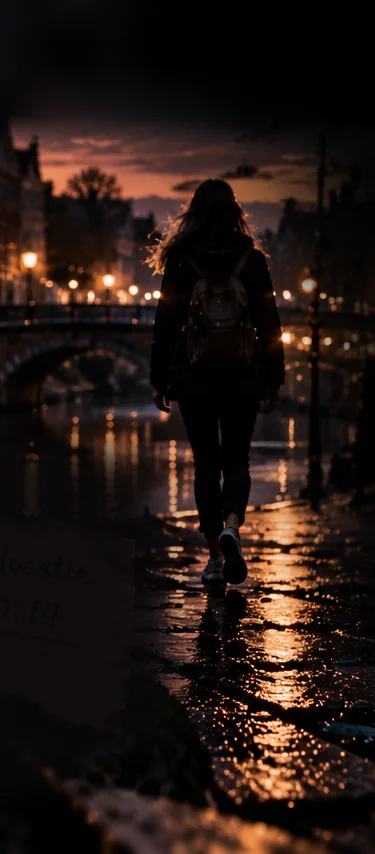
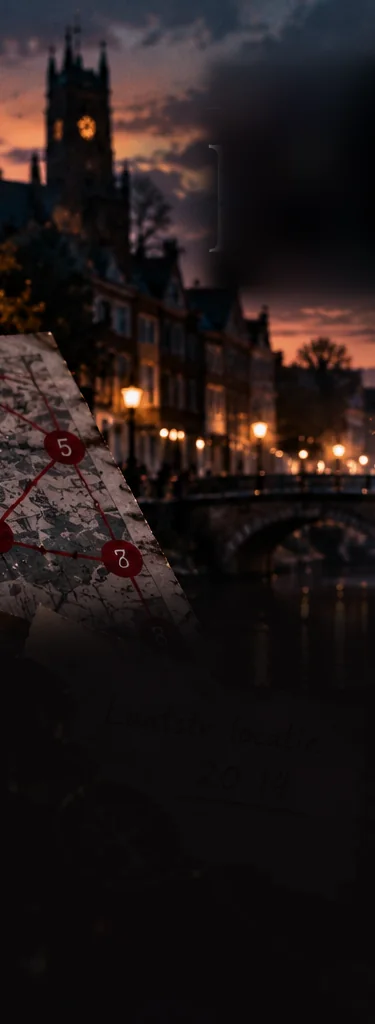
De Verdwijning: startscherm rond de telefoon met het laatste gesprek (taal van de pagina), achtergrond zonder het meisje, neutrale figuur met capuchon
Claude-Session: https://claude.ai/code/session_01M8DsomgqiAvfCgo995HChD

diff --git a/games/vanishing/game.css b/games/vanishing/game.css
@@ -98,7 +98,7 @@ input[type=range]{width:100%;accent-color:var(--blood)}
 :root{--night:#0c0a0b;--night2:#171214;--street:#3d2f2b;--fog:#b8aca0;--paper:#ddd5c6;--paper2:#cfc6b4;--ink:#1a1614;--ink2:#63584c;--rule:#b5a994;
   --lamp:#f0963c;--spook:#f3c9a0;--blood:#c2262e;--violet:#e8a27a;--f-title:'IM Fell English SC','Special Elite',Georgia,serif;--f-hand:'Caveat','Segoe Script',cursive}
 /* startscherm: titel boven in de lucht, de vermiste loopt weg over de kade, daaronder de zaak */
-#home{background:linear-gradient(180deg,rgba(12,10,11,.7) 0%,rgba(12,10,11,.25) 16%,rgba(12,10,11,0) 26%,rgba(12,10,11,0) 60%,rgba(12,10,11,.85) 76%,var(--night) 86%),url("hero.webp") 60% top/cover no-repeat,var(--night)}
+#home{background:linear-gradient(180deg,rgba(12,10,11,.6) 0%,rgba(12,10,11,.15) 14%,rgba(12,10,11,0) 24%,rgba(12,10,11,0) 52%,rgba(12,10,11,.8) 70%,var(--night) 84%),url("hero.webp") center top/cover no-repeat,var(--night)}
 @media (min-aspect-ratio:4/5){#home{background:linear-gradient(90deg,var(--night) 0%,rgba(12,10,11,0) 30%,rgba(12,10,11,0) 70%,var(--night) 100%),linear-gradient(180deg,rgba(12,10,11,.82) 0%,rgba(12,10,11,0) 34%,rgba(12,10,11,0) 52%,rgba(12,10,11,.85) 68%,var(--night) 78%),url("hero.webp") center top/auto 100vh no-repeat,var(--night)}}
 #home::after{content:"";position:fixed;inset:0;pointer-events:none;box-shadow:inset 0 0 120px rgba(0,0,0,.8)}
 .row0{justify-content:center}
@@ -107,7 +107,7 @@ input[type=range]{width:100%;accent-color:var(--blood)}
 .masthead .brand::before,.masthead .brand::after{content:"";flex:1;height:1px;background:rgba(221,213,198,.45)}
 #ttl{font-family:var(--f-title);font-size:clamp(34px,10.4vw,52px);line-height:1;letter-spacing:.01em;color:#e9e2d6;text-shadow:0 2px 2px #000,0 0 30px rgba(0,0,0,.9)}
 .masthead .redline{width:78%;height:3px;border-radius:2px;background:linear-gradient(90deg,rgba(194,38,46,0),#c2262e 18%,#c2262e 82%,rgba(194,38,46,0));box-shadow:0 0 12px rgba(194,38,46,.6)}
-.gap{min-height:clamp(300px,50vh,460px)}
+.gap{min-height:clamp(150px,27vh,260px)}
 #home .lead{font-family:var(--f-type);font-size:19px;line-height:1.5;color:#f1e9dc;text-align:center;max-width:none}
 .tasks{list-style:none;margin:0;padding:0;display:flex;flex-direction:column;gap:6px;font-family:var(--f-type);font-size:15px;color:#d9d0c2;text-align:center;text-shadow:0 1px 6px #000}
 .tasks li:last-child{margin-top:8px;color:var(--spook)}
@@ -168,3 +168,25 @@ input[type=range]{width:100%;accent-color:var(--blood)}
 #ar video{filter:saturate(.7) brightness(.75) contrast(1.15) sepia(.25)}
 #ar::after{content:"";position:absolute;inset:0;pointer-events:none;background:radial-gradient(ellipse at center,rgba(12,10,11,0) 35%,rgba(3,2,3,.82) 100%)}
 #arH,#arX{z-index:1}
+
+/* startscherm: de telefoon met het laatste gesprek, zoals op de sfeerfoto (teksten in de taal van de pagina) */
+.gsm{align-self:center;width:min(300px,86%);background:linear-gradient(160deg,#1c1819,#0b090a);border:3px solid #2e2729;border-radius:34px;padding:12px 12px 18px;box-shadow:0 0 0 1px #4a4043,0 24px 50px rgba(0,0,0,.75),0 0 60px rgba(240,150,60,.12);transform:rotate(-3deg);position:relative;font-family:var(--f-body)}
+.gsm::before{content:"";display:block;width:74px;height:18px;border-radius:12px;background:#000;margin:0 auto 8px}
+.gsm::after{content:"";position:absolute;inset:3px;border-radius:30px;pointer-events:none;background:linear-gradient(120deg,rgba(255,255,255,.10) 0%,rgba(255,255,255,0) 28%)}
+.gsm .bar{display:flex;justify-content:space-between;font-size:11px;color:#b8aca0;padding:0 10px;margin-top:-22px;margin-bottom:10px}
+.gsm .who{display:flex;align-items:center;gap:10px;padding:8px 6px 10px;border-bottom:1px solid #2e2729;margin-bottom:10px}
+.gsm .av{width:34px;height:34px;border-radius:50%;background:#3a3033;position:relative;overflow:hidden;flex:none}
+.gsm .av::before{content:"";position:absolute;left:50%;top:7px;width:12px;height:12px;margin-left:-6px;border-radius:50%;background:#6b5e60}
+.gsm .av::after{content:"";position:absolute;left:50%;bottom:-8px;width:26px;height:18px;margin-left:-13px;border-radius:13px 13px 0 0;background:#6b5e60}
+.gsm .who b{display:block;font-weight:600;font-size:15px;color:#f1e9dc;line-height:1.1}
+.gsm .who small{font-size:12px;color:#9a8d80}
+.gsm .chat{display:flex;flex-direction:column;gap:8px;align-items:flex-start;padding:0 4px}
+.gsm .chat p{margin:0;background:#e9e6e1;color:#1a1614;font-size:15px;line-height:1.3;padding:8px 12px;border-radius:16px 16px 16px 4px;display:flex;gap:10px;align-items:flex-end;opacity:0;animation:pop .5s ease-out forwards}
+.gsm .chat p i{font-style:normal;font-size:10.5px;color:#6b6058;white-space:nowrap}
+.gsm .chat p:nth-child(1){animation-delay:.5s}.gsm .chat p:nth-child(2){animation-delay:1.9s}.gsm .chat p:nth-child(3){animation-delay:3.3s}
+.gsm .chat .dots{background:#3a3436;padding:11px 14px;gap:5px;animation-delay:4.9s}
+.gsm .chat .dots span{width:7px;height:7px;border-radius:50%;background:#cfc6b8;animation:blink 1.3s infinite}
+.gsm .chat .dots span:nth-child(2){animation-delay:.2s}.gsm .chat .dots span:nth-child(3){animation-delay:.4s}
+.gsm .off{align-self:center;margin-top:10px;font-size:11.5px;color:#e0545f;letter-spacing:.04em;opacity:0;animation:pop .6s ease-out 7s forwards}
+@keyframes pop{from{opacity:0;transform:translateY(8px)}to{opacity:1;transform:none}}
+@keyframes blink{0%,60%,100%{opacity:.25}30%{opacity:1}}

diff --git a/nl/de-verdwijning.html b/nl/de-verdwijning.html
@@ -19,7 +19,7 @@
 <meta name="theme-color" content="#0c0a0b">
 <link rel="stylesheet" href="https://fonts.googleapis.com/css2?family=Special+Elite&family=Barlow:wght@400;500;600&family=Barlow+Condensed:wght@600&family=IM+Fell+English+SC&family=Caveat:wght@600&display=swap">
 <link rel="stylesheet" href="../shared/platform.css?v=1">
-<link rel="stylesheet" href="../games/vanishing/game.css?v=2">
+<link rel="stylesheet" href="../games/vanishing/game.css?v=3">
 <script type="application/ld+json">{"@context":"https://schema.org","@type":"VideoGame","name":"De Verdwijning","url":"https://moordwandeling.nl/nl/de-verdwijning.html","description":"Iemand is verdwenen. De laatste acht sporen van die avond liggen op echte plekken om je heen: camerabeelden, berichten, verklaringen, voorwerpen. Ontvoerd, gevlucht of vrijwillig verdwenen? Eerste zaak gratis.","inLanguage":"nl","gamePlatform":"Webbrowser","genre":["Detective","Locatiespel"],"isAccessibleForFree":true,"offers":{"@type":"Offer","price":"3.99","priceCurrency":"EUR","description":"Pro"}}</script>
 </head>
 <body>
@@ -30,7 +30,8 @@
       <div class="row0"><div class="pills"><a class="pill" id="hub" href="./">◂ Alle wandelingen</a><button type="button" class="pill" id="lang">English</button></div></div>
       <div class="masthead"><div class="brand">Moordwandeling</div><h1 id="ttl">De Verdwijning</h1><div class="redline"></div></div>
       <div class="gap"></div>
-      <p class="lead">Iemand is verdwenen.<br>De laatste acht sporen liggen in jouw buurt.</p>
+      <div class="gsm" aria-label="De vermiste"><div class="bar"><span>20:14</span><span>▂▄▆</span></div><div class="who"><span class="av"></span><span><b>De vermiste</b><small>laatst online 20:14</small></span></div><div class="chat"><p>Ik ben bijna op de plek…<i>20:12</i></p><p>Het voelt hier niet goed…<i>20:14</i></p><p>Ik meld me zo!<i>20:14</i></p><p class="dots"><span></span><span></span><span></span></p><span class="off">Telefoon uitgeschakeld · geen bereik</span></div></div>
+      <p class="lead">Iemand is verdwenen. Jij hebt het laatste bericht.<br>De laatste acht sporen liggen in jouw buurt.</p>
       <ul class="tasks"><li>Ontdek de laatste berichten.</li><li>Bekijk camerabeelden.</li><li>Spreek getuigen.</li><li>Verzamel bewijs.</li><li>Ontvoerd, gevlucht of vrijwillig verdwenen?</li></ul>
       <div class="pline"><b id="pRank">–</b><span><b id="pStreak">0</b> Dagen op rij</span><span><b id="pSolved">0</b> Opgelost</span></div>
       <div hidden><div class="xp"><i id="pXp" style="width:0%"></i></div><p class="note" id="pNext"></p></div>
@@ -109,6 +110,6 @@
 <script src="../shared/walk.js?v=2"></script>
 <script src="../games/vanishing/data-nl.js?v=1"></script>
 <script src="../games/vanishing/puzzles.js?v=1"></script>
-<script src="../games/vanishing/game.js?v=2"></script>
+<script src="../games/vanishing/game.js?v=3"></script>
 </body>
 </html>

diff --git a/the-vanishing.html b/the-vanishing.html
@@ -19,7 +19,7 @@
 <meta name="theme-color" content="#0c0a0b">
 <link rel="stylesheet" href="https://fonts.googleapis.com/css2?family=Special+Elite&family=Barlow:wght@400;500;600&family=Barlow+Condensed:wght@600&family=IM+Fell+English+SC&family=Caveat:wght@600&display=swap">
 <link rel="stylesheet" href="shared/platform.css?v=1">
-<link rel="stylesheet" href="games/vanishing/game.css?v=2">
+<link rel="stylesheet" href="games/vanishing/game.css?v=3">
 <script type="application/ld+json">{"@context":"https://schema.org","@type":"VideoGame","name":"The Vanishing","url":"https://murderwalk.com/the-vanishing.html","description":"Someone is gone. Their last eight traces of that evening lie at real places around you: camera stills, texts, statements, objects. Abducted, fled or a disappearance by choice? First case free.","inLanguage":"en","gamePlatform":"Web browser","genre":["Detective","Location-based game"],"isAccessibleForFree":true,"offers":{"@type":"Offer","price":"3.99","priceCurrency":"EUR","description":"Pro"}}</script>
 </head>
 <body>
@@ -30,7 +30,8 @@
       <div class="row0"><div class="pills"><a class="pill" id="hub" href="./">◂ All walks</a><button type="button" class="pill" id="lang">Nederlands</button></div></div>
       <div class="masthead"><div class="brand">Murder Walk</div><h1 id="ttl">The Vanishing</h1><div class="redline"></div></div>
       <div class="gap"></div>
-      <p class="lead">Someone is gone.<br>Their last eight traces lie in your streets.</p>
+      <div class="gsm" aria-label="The missing person"><div class="bar"><span>20:14</span><span>▂▄▆</span></div><div class="who"><span class="av"></span><span><b>The missing person</b><small>last seen 20:14</small></span></div><div class="chat"><p>I'm almost at the spot…<i>20:12</i></p><p>Something feels wrong here…<i>20:14</i></p><p>I'll check in soon!<i>20:14</i></p><p class="dots"><span></span><span></span><span></span></p><span class="off">Phone switched off · no signal</span></div></div>
+      <p class="lead">Someone is gone. You hold the last message.<br>Their last eight traces lie in your streets.</p>
       <ul class="tasks"><li>Uncover the last messages.</li><li>Watch the camera stills.</li><li>Question witnesses.</li><li>Gather evidence.</li><li>Abducted, fled or vanished by choice?</li></ul>
       <div class="pline"><b id="pRank">–</b><span><b id="pStreak">0</b> Day streak</span><span><b id="pSolved">0</b> Solved</span></div>
       <div hidden><div class="xp"><i id="pXp" style="width:0%"></i></div><p class="note" id="pNext"></p></div>
@@ -109,6 +110,6 @@
 <script src="shared/walk.js?v=2"></script>
 <script src="games/vanishing/data-en.js?v=1"></script>
 <script src="games/vanishing/puzzles.js?v=1"></script>
-<script src="games/vanishing/game.js?v=2"></script>
+<script src="games/vanishing/game.js?v=3"></script>
 </body>
 </html>

diff --git a/games/vanishing/game.js b/games/vanishing/game.js
@@ -54,7 +54,7 @@ var FP={},fp=function(d){return FP[d]||(FP[d]=new Path2D(d))};
 function figBox(c,x,y,s,al,fn){c.save();c.globalAlpha=al;c.translate(x,y);c.scale(s/150,s/150);c.translate(-60,-80);c.lineJoin="round";c.lineCap="round";fn();c.restore()}
 function wet(c,rx,a){var g=c.createRadialGradient(60,152,2,60,152,rx);g.addColorStop(0,"rgba(240,150,60,"+a+")");g.addColorStop(1,"rgba(240,150,60,0)");c.save();c.translate(0,152);c.scale(1,.26);c.translate(0,-152);c.fillStyle=g;c.beginPath();c.arc(60,152,rx,0,7);c.fill();c.restore();
   var r=c.createLinearGradient(0,152,0,176);r.addColorStop(0,"rgba(5,4,5,.7)");r.addColorStop(1,"rgba(5,4,5,0)");c.fillStyle=r;c.fillRect(46,152,30,24)}
-/* de vermiste: op de rug gezien, lopend, rugzak om, tegen het laatste avondlicht */
+/* de vermiste: op de rug gezien, lopend, capuchon op en rugzak om (bewust geen man of vrouw), tegen het laatste avondlicht */
 function walker(c,x,y,s,col,al){figBox(c,x,y,s,al,function(){
   var h=c.createRadialGradient(60,60,6,60,70,100);h.addColorStop(0,"rgba(232,120,70,.30)");h.addColorStop(1,"rgba(232,120,70,0)");c.fillStyle=h;c.beginPath();c.arc(60,70,100,0,7);c.fill();
   wet(c,70,.5);
@@ -62,11 +62,10 @@ function walker(c,x,y,s,col,al){figBox(c,x,y,s,al,function(){
   c.fill(fp("M45 86 H61 L56 120 L51 152 H41 L45 120 Z M58 86 H76 L74 116 L82 146 L73 152 L65 122 L60 98 Z"));
   c.fill(fp("M45 44 C52 39 68 39 75 44 L78 88 H42 Z"));
   c.strokeStyle="#070506";c.lineWidth=7;c.stroke(fp("M46 47 C39 60 39 74 41 90 M74 47 C81 60 82 72 80 88"));
-  c.fill(fp("M50 21 C49 9 71 9 70 21 C73 30 72 40 67 46 H53 C48 40 47 30 50 21 Z"));
-  c.strokeStyle="#070506";c.lineWidth=1.6;c.stroke(fp("M49 30 C45 34 46 40 43 44 M71 30 C76 35 74 40 78 43 M52 12 C50 8 54 6 53 3"));
+  c.fill(fp("M50 25 C47 7 73 7 70 25 C71 35 69 42 66 46 H54 C51 42 49 35 50 25 Z"));
   c.fillStyle="#1c1616";c.strokeStyle="rgba(240,150,60,.55)";c.lineWidth=1.1;var bp=fp("M50 52 Q50 47 55 47 H65 Q70 47 70 52 V78 Q70 83 65 83 H55 Q50 83 50 78 Z");c.fill(bp);c.stroke(bp);
   c.stroke(fp("M53 62 H67 M55 47 C54 44 54 42 55 41 M65 47 C66 44 66 42 65 41"));
-  c.strokeStyle=col;c.lineWidth=1.7;c.stroke(fp("M70 21 C73 30 72 40 67 46 M75 44 L78 88 M76 86 L74 116 L82 146 M80.5 60 C82 70 81.5 80 80 88"));
+  c.strokeStyle=col;c.lineWidth=1.7;c.stroke(fp("M70 25 C71 35 69 42 66 46 M75 44 L78 88 M76 86 L74 116 L82 146 M80.5 60 C82 70 81.5 80 80 88"));
   c.fillStyle="#d9d2c4";c.fill(fp("M73 152 L82 146 L84 150 L76 155 Z"))})}
 /* getuigen: voorbijgangers in het lantaarnlicht. Drie types: met paraplu, met capuchon, met hond */
 var WIT=[
